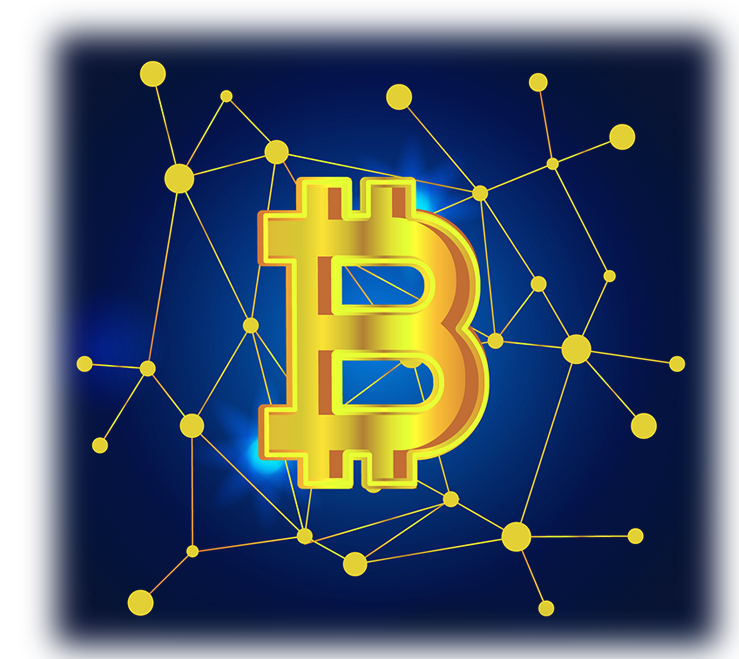
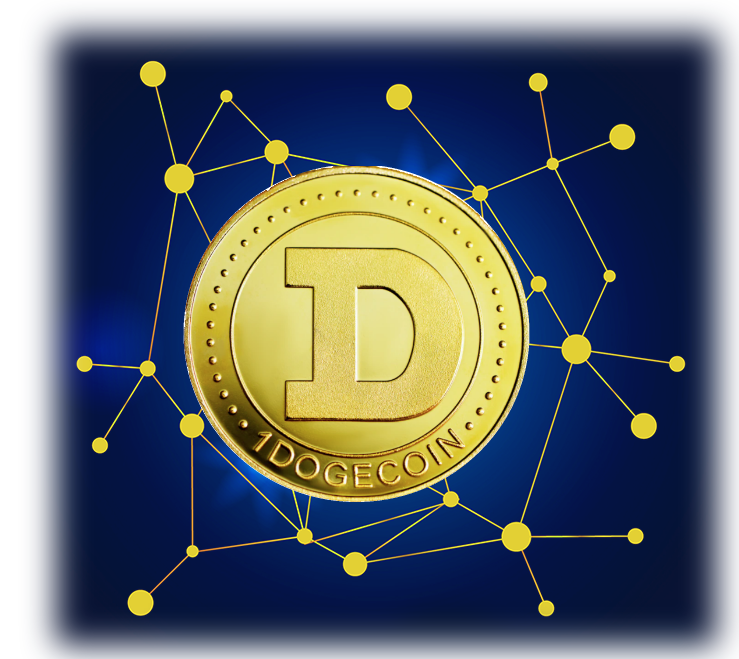
Add DagobertDoge the first time.

Changed region(s): [[0.249, 0.2428, 0.7158, 0.7587]]

diff --git a/index.html b/index.html
@@ -49,7 +49,7 @@
                 <div class="row d_flex">
                     <div class="col-sm-3">
                         <div class="logo">
-                            <a href="index.html">BitCYPO</a>
+                            <a href="index.html">DagobertDoge</a>
                         </div>
                     </div>
                     <div class="col-sm-5">
@@ -98,7 +98,7 @@
                                             </div>
                                             <div class="col-md-6">
                                                 <div class="bluid">
-                                                    <h1>Progress<br> Your Bitcoin Money Success</h1>
+                                                    <h1>Progress<br> Your Money Success with Dagobert Doge.</h1>
                                                     <p>There are many variations of passages of Lorem Ipsum available, but the majority have suffered
                                                     </p>
                                                     <a class="read_more" href="Javascript:void(0)">Read More </a><a class="read_more" href="Javascript:void(0)">Get A Quote </a>
@@ -685,7 +685,7 @@
             <div class="container">
                 <div class="row">
                     <div class="col-md-12">
-                        <a class="logo_bottom" href="index.html">BitCYPO</a>
+                        <a class="logo_bottom" href="index.html">DagobertDoge</a>
                     </div>
                     <div class="col-md-3 col-sm-6" ">
                   <div class="Informa conta ">
